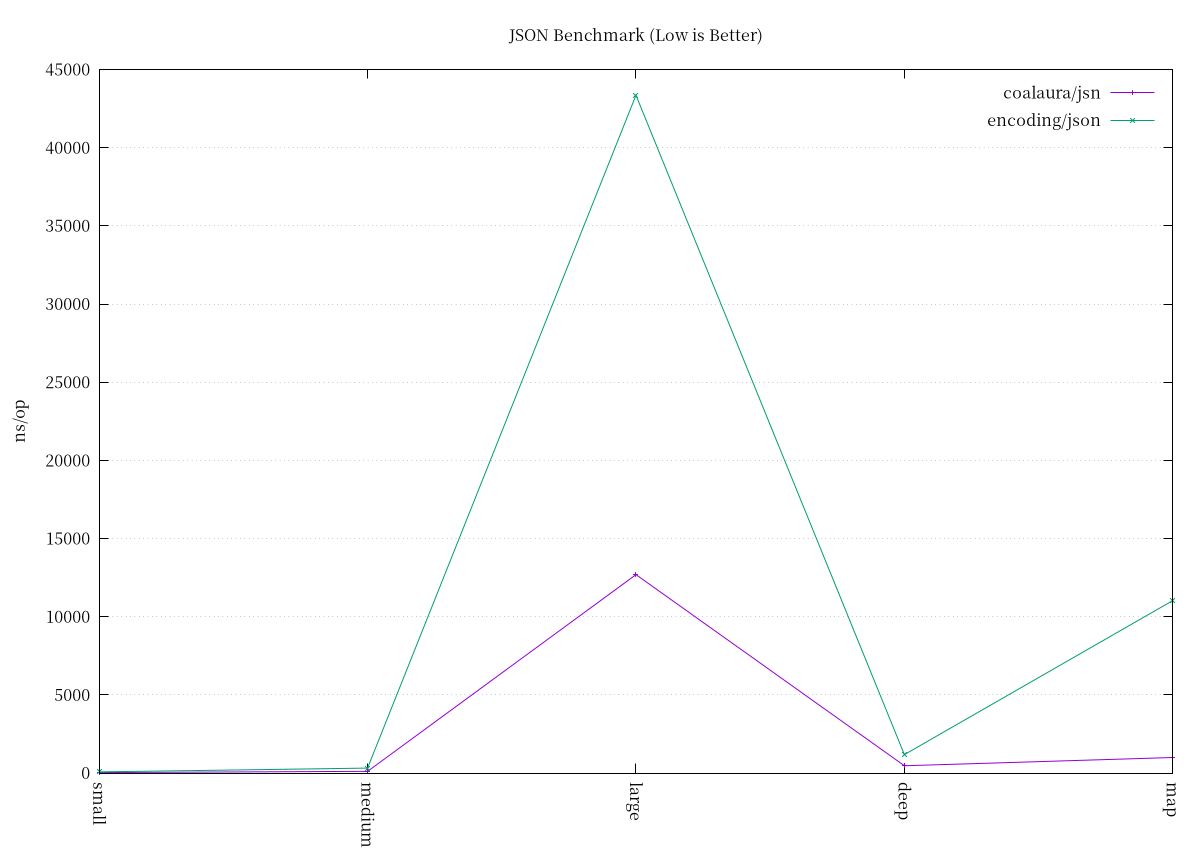
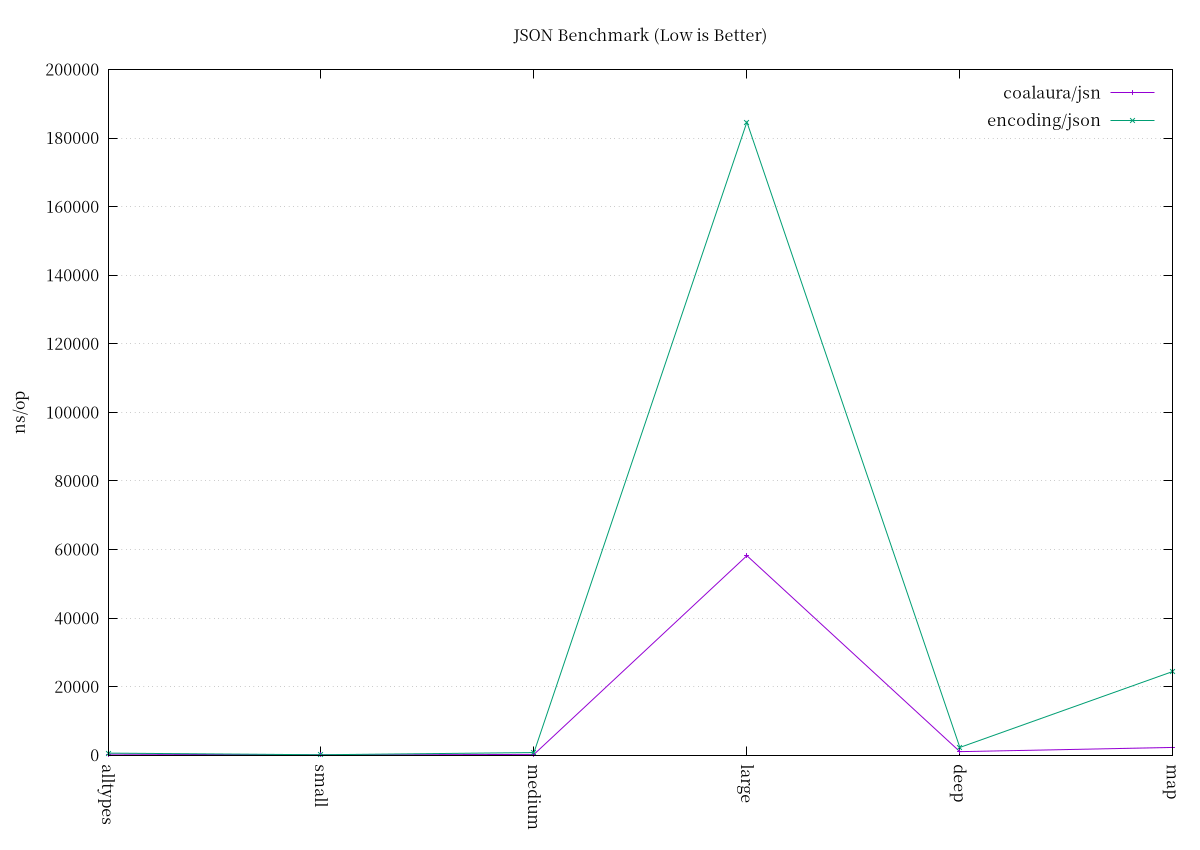
deeper benchmarks

diff --git a/bench/bench_test.go b/bench/bench_test.go
@@ -5,20 +5,36 @@ import (
 	"io"
 	"strconv"
 	"testing"
+	"time"
 
 	"github.com/coalaura/jsn"
 )
 
 type Small struct {
-	ID    int64  `json:"id"`
-	Name  string `json:"name"`
-	IsBot bool   `json:"is_bot"`
+	ID     int64   `json:"id"`
+	Name   string  `json:"name"`
+	IsBot  bool    `json:"is_bot"`
+	Score  float64 `json:"score"`
+	Status *string `json:"status"` // Pointer type
+}
+
+type AllTypes struct {
+	IntVal    int            `json:"int_val"`
+	UintVal   uint64         `json:"uint_val"`
+	FloatVal  float32        `json:"float_val"`
+	StringVal string         `json:"string_val"`
+	BoolVal   bool           `json:"bool_val"`
+	SliceVal  []byte         `json:"slice_val"` // Base64 encoding test
+	TimeVal   time.Time      `json:"time_val"`
+	MapVal    map[string]any `json:"map_val"`
 }
 
 type Medium struct {
 	User     Small            `json:"user"`
 	Roles    []string         `json:"roles"`
 	Settings map[string]int64 `json:"settings"`
+	Flags    [4]bool          `json:"flags"` // Array type
+	Created  time.Time        `json:"created"`
 }
 
 type Node struct {
@@ -34,61 +50,115 @@ type Large struct {
 }
 
 var (
-	smallData *Small
-	medData   *Medium
-	largeData *Large
-	deepData  *Node
-	mapData   map[string]int64
+	smallData    *Small
+	allTypesData *AllTypes
+	medData      *Medium
+	largeData    *Large
+	deepData     *Node
+	mapData      map[string]int64
 
-	smallEnc = jsn.Compile[*Small]()
-	medEnc   = jsn.Compile[*Medium]()
-	largeEnc = jsn.Compile[*Large]()
-	deepEnc  = jsn.Compile[*Node]()
+	smallEnc    = jsn.Compile[*Small]()
+	allTypesEnc = jsn.Compile[*AllTypes]()
+	medEnc      = jsn.Compile[*Medium]()
+	largeEnc    = jsn.Compile[*Large]()
+	deepEnc     = jsn.Compile[*Node]()
 )
 
 func init() {
-	smallData = &Small{ID: 102930192, Name: "Mechanically Sympathetic User", IsBot: false}
-	medData = &Medium{
-		User:     *smallData,
-		Roles:    []string{"admin", "user", "guest"},
-		Settings: map[string]int64{"theme": 1, "notifications": 0},
+	status := "active_status"
+
+	smallData = &Small{
+		ID:     102930192,
+		Name:   "Mechanically Sympathetic User \u2605 with \"escapes\" & \n newlines",
+		IsBot:  false,
+		Score:  99.987,
+		Status: &status,
 	}
 
-	// Init Depth 10 Tree
+	allTypesData = &AllTypes{
+		IntVal:    -42,
+		UintVal:   18446744073709551615,
+		FloatVal:  3.14159,
+		StringVal: "Standard and Custom Serialization",
+		BoolVal:   true,
+		SliceVal:  []byte{0xde, 0xad, 0xbe, 0xef},
+		TimeVal:   time.Date(2026, 7, 2, 1, 2, 21, 0, time.UTC),
+		MapVal:    map[string]any{"key1": "val1", "key2": 123.45},
+	}
+
+	medData = &Medium{
+		User:     *smallData,
+		Roles:    []string{"admin", "user", "guest", "moderator", "billing"},
+		Settings: map[string]int64{"theme": 1, "notifications": 0, "frequency": 42},
+		Flags:    [4]bool{true, false, true, true},
+		Created:  time.Date(2026, 7, 2, 1, 2, 21, 0, time.UTC),
+	}
+
 	deepData = &Node{Name: "Root", Value: 1}
+
 	curr := deepData
-	for i := range 10 {
+
+	for i := range 20 {
 		child := &Node{Name: "Child", Value: int64(i)}
+
 		curr.Children = []*Node{child}
+
 		curr = child
 	}
 
-	// Init Large Slice of structs
-	users := make([]Medium, 100)
-	for i := range 100 {
+	users := make([]Medium, 200)
+
+	for i := range 200 {
 		users[i] = *medData
 	}
+
 	extra := make(map[string]string)
-	for i := range 100 {
-		extra[strconv.Itoa(i)] = "value"
+
+	for i := range 200 {
+		extra[strconv.Itoa(i)] = "value_with_some_length_to_test_allocation"
 	}
+
 	largeData = &Large{
 		Users: users,
 		Nodes: deepData,
 		Extra: extra,
 	}
 
-	// Init Map Data
 	mapData = make(map[string]int64)
-	for i := range 100 {
+
+	for i := range 200 {
 		mapData[strconv.Itoa(i)] = int64(i)
+	}
+}
+
+func BenchmarkEncode_AllTypes_Std(b *testing.B) {
+	enc := json.NewEncoder(io.Discard)
+
+	b.ReportAllocs()
+	b.ResetTimer()
+
+	for b.Loop() {
+		_ = enc.Encode(allTypesData)
+	}
+}
+
+func BenchmarkEncode_AllTypes_Jsn(b *testing.B) {
+	enc := jsn.NewEncoder(io.Discard)
+
+	b.ReportAllocs()
+	b.ResetTimer()
+
+	for b.Loop() {
+		_ = enc.EncodeAs(allTypesEnc, allTypesData)
 	}
 }
 
 func BenchmarkEncode_Small_Std(b *testing.B) {
 	enc := json.NewEncoder(io.Discard)
+
 	b.ReportAllocs()
 	b.ResetTimer()
+
 	for b.Loop() {
 		_ = enc.Encode(smallData)
 	}
@@ -96,8 +166,10 @@ func BenchmarkEncode_Small_Std(b *testing.B) {
 
 func BenchmarkEncode_Small_Jsn(b *testing.B) {
 	enc := jsn.NewEncoder(io.Discard)
+
 	b.ReportAllocs()
 	b.ResetTimer()
+
 	for b.Loop() {
 		_ = enc.EncodeAs(smallEnc, smallData)
 	}
@@ -105,8 +177,10 @@ func BenchmarkEncode_Small_Jsn(b *testing.B) {
 
 func BenchmarkEncode_Medium_Std(b *testing.B) {
 	enc := json.NewEncoder(io.Discard)
+
 	b.ReportAllocs()
 	b.ResetTimer()
+
 	for b.Loop() {
 		_ = enc.Encode(medData)
 	}
@@ -114,8 +188,10 @@ func BenchmarkEncode_Medium_Std(b *testing.B) {
 
 func BenchmarkEncode_Medium_Jsn(b *testing.B) {
 	enc := jsn.NewEncoder(io.Discard)
+
 	b.ReportAllocs()
 	b.ResetTimer()
+
 	for b.Loop() {
 		_ = enc.EncodeAs(medEnc, medData)
 	}
@@ -123,8 +199,10 @@ func BenchmarkEncode_Medium_Jsn(b *testing.B) {
 
 func BenchmarkEncode_Large_Std(b *testing.B) {
 	enc := json.NewEncoder(io.Discard)
+
 	b.ReportAllocs()
 	b.ResetTimer()
+
 	for b.Loop() {
 		_ = enc.Encode(largeData)
 	}
@@ -132,8 +210,10 @@ func BenchmarkEncode_Large_Std(b *testing.B) {
 
 func BenchmarkEncode_Large_Jsn(b *testing.B) {
 	enc := jsn.NewEncoder(io.Discard)
+
 	b.ReportAllocs()
 	b.ResetTimer()
+
 	for b.Loop() {
 		_ = enc.EncodeAs(largeEnc, largeData)
 	}
@@ -141,8 +221,10 @@ func BenchmarkEncode_Large_Jsn(b *testing.B) {
 
 func BenchmarkEncode_Deep_Std(b *testing.B) {
 	enc := json.NewEncoder(io.Discard)
+
 	b.ReportAllocs()
 	b.ResetTimer()
+
 	for b.Loop() {
 		_ = enc.Encode(deepData)
 	}
@@ -150,8 +232,10 @@ func BenchmarkEncode_Deep_Std(b *testing.B) {
 
 func BenchmarkEncode_Deep_Jsn(b *testing.B) {
 	enc := jsn.NewEncoder(io.Discard)
+
 	b.ReportAllocs()
 	b.ResetTimer()
+
 	for b.Loop() {
 		_ = enc.EncodeAs(deepEnc, deepData)
 	}
@@ -159,8 +243,10 @@ func BenchmarkEncode_Deep_Jsn(b *testing.B) {
 
 func BenchmarkEncode_Map_Std(b *testing.B) {
 	enc := json.NewEncoder(io.Discard)
+
 	b.ReportAllocs()
 	b.ResetTimer()
+
 	for b.Loop() {
 		_ = enc.Encode(mapData)
 	}
@@ -168,8 +254,10 @@ func BenchmarkEncode_Map_Std(b *testing.B) {
 
 func BenchmarkEncode_Map_Jsn(b *testing.B) {
 	enc := jsn.NewEncoder(io.Discard)
+
 	b.ReportAllocs()
 	b.ResetTimer()
+
 	for b.Loop() {
 		_ = enc.Encode(mapData)
 	}